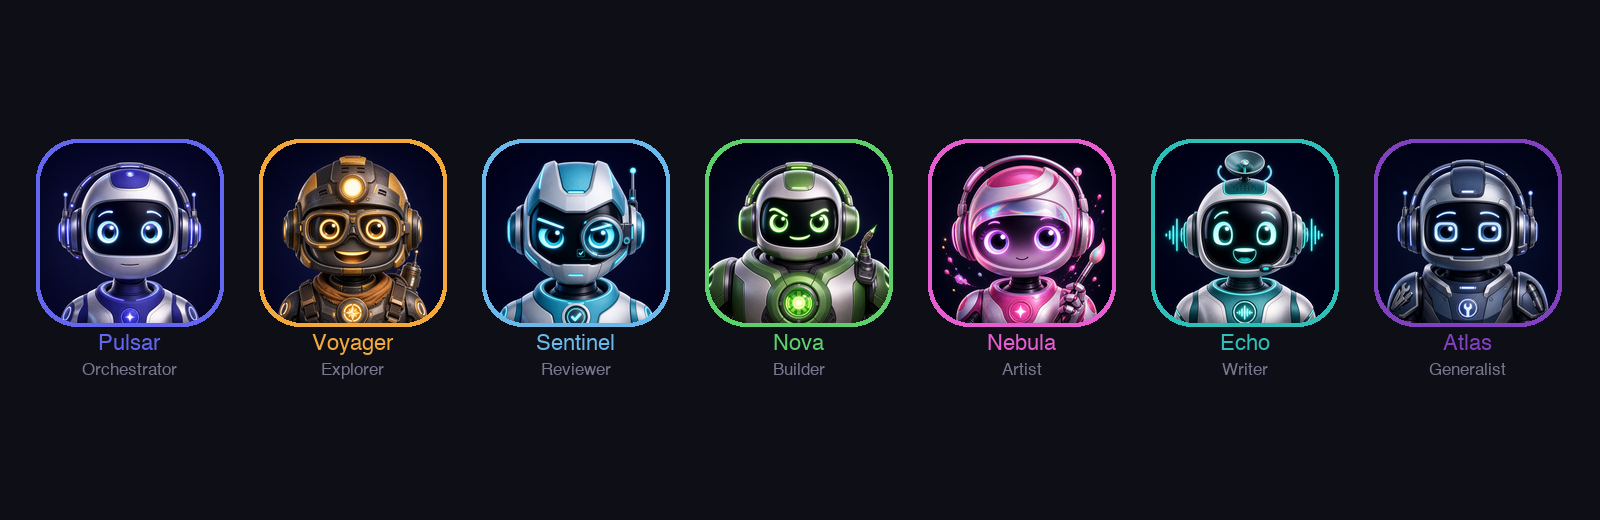
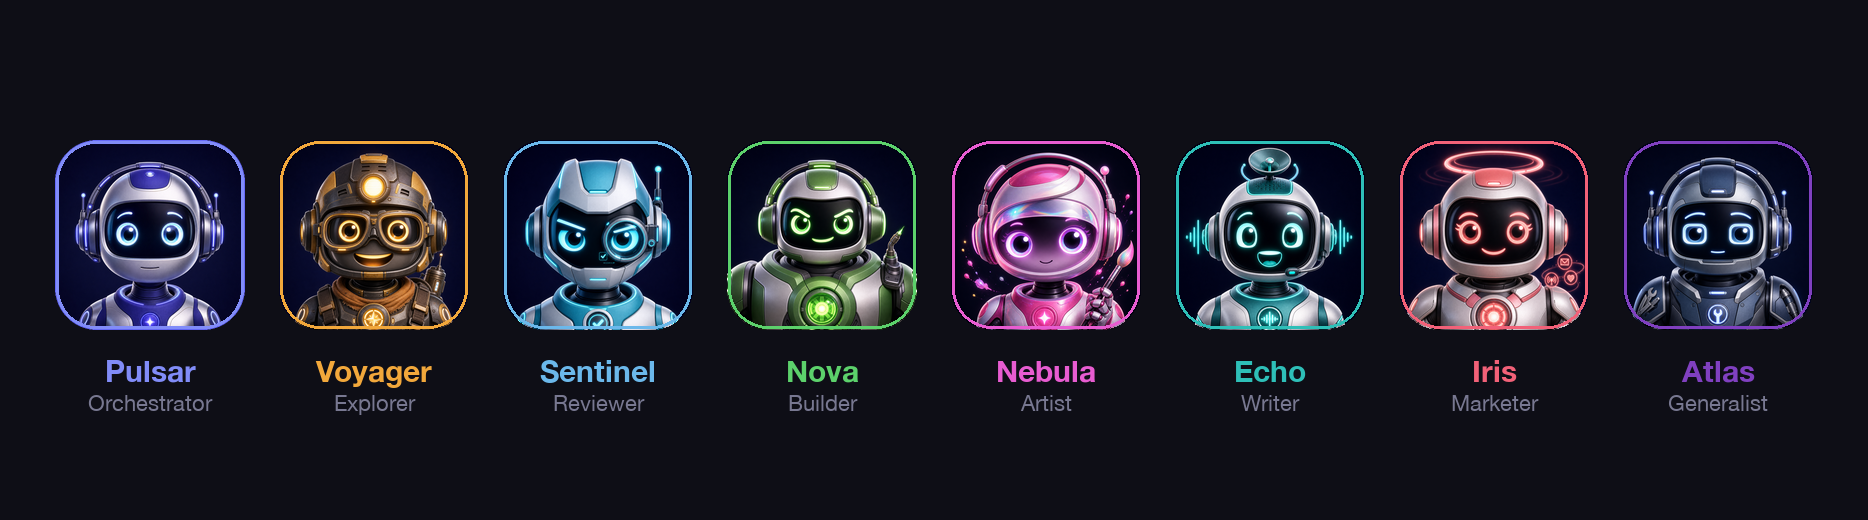
README swarm: regen with Iris (8 tiles) + commit the compositor
assets/readme/drone-swarm.png now shows the full 8-strong cast — Iris
(coral-rose, Marketer) slotted between Echo and Atlas. The lineup is
built by scripts/build-drone-swarm.py (new, committed so the next cast
change regenerates mechanically instead of re-deriving the layout);
colours/roles mirror DroneRegistry.

diff --git a/scripts/build-drone-swarm.py b/scripts/build-drone-swarm.py
@@ -1,0 +1,90 @@
+#!/usr/bin/env python3
+"""Rebuild assets/readme/drone-swarm.png — the README's "Meet the swarm" lineup.
+
+Composites the full cast (Pulsar + every drone) from their master portraits
+into colour-ringed rounded tiles with name + role labels. Run it after ANY
+cast change (new drone, recoloured drone, new master art):
+
+    python3 scripts/build-drone-swarm.py
+
+Cast order/colours/roles mirror Sources/Models/DroneRegistry.swift — keep the
+CAST table below in lockstep with the registry (colours are the locked drone
+hues; roles are the registry roles, capitalised).
+"""
+
+from pathlib import Path
+from PIL import Image, ImageDraw, ImageFont
+
+REPO = Path(__file__).resolve().parent.parent
+
+# name, role, hex colour (DroneRegistry locked hues), master portrait path
+CAST = [
+    ("Pulsar",   "Orchestrator", "#818CF8", REPO / "assets/readme/pulsar.png"),
+    ("Voyager",  "Explorer",     "#F2A83B", REPO / "design/drones/voyager.png"),
+    ("Sentinel", "Reviewer",     "#6BB8EB", REPO / "design/drones/sentinel.png"),
+    ("Nova",     "Builder",      "#5CD16B", REPO / "design/drones/nova.png"),
+    ("Nebula",   "Artist",       "#E85CD1", REPO / "design/drones/nebula.png"),
+    ("Echo",     "Writer",       "#2EBFB8", REPO / "design/drones/echo.png"),
+    ("Iris",     "Marketer",     "#F26178", REPO / "design/drones/iris.png"),
+    ("Atlas",    "Generalist",   "#8040C0", REPO / "design/drones/atlas.png"),
+]
+
+BG = (14, 14, 22)          # sampled from the original asset
+ROLE_GREY = (120, 120, 145)
+TILE = 190                  # portrait tile edge
+RADIUS = 40                 # tile corner radius
+BORDER = 3                  # ring width
+CANVAS_H = 520
+TILE_Y = 140                # tile top edge (vertical centre-ish, room for labels)
+GAP_EDGE = 55               # first/last tile inset
+
+OUT = REPO / "assets/readme/drone-swarm.png"
+
+
+def font(size: int, bold: bool = False):
+    for path, idx in [
+        ("/System/Library/Fonts/HelveticaNeue.ttc", 1 if bold else 0),
+        ("/System/Library/Fonts/Helvetica.ttc", 1 if bold else 0),
+    ]:
+        try:
+            return ImageFont.truetype(path, size, index=idx)
+        except Exception:
+            continue
+    return ImageFont.load_default()
+
+
+def rounded_tile(master: Path, hex_colour: str) -> Image.Image:
+    """Master portrait resized into a rounded square with a coloured ring."""
+    img = Image.open(master).convert("RGB").resize((TILE, TILE), Image.LANCZOS)
+    tile = Image.new("RGBA", (TILE, TILE), (0, 0, 0, 0))
+    mask = Image.new("L", (TILE, TILE), 0)
+    ImageDraw.Draw(mask).rounded_rectangle([0, 0, TILE - 1, TILE - 1], RADIUS, fill=255)
+    tile.paste(img, (0, 0), mask)
+    d = ImageDraw.Draw(tile)
+    d.rounded_rectangle([1, 1, TILE - 2, TILE - 2], RADIUS, outline=hex_colour, width=BORDER)
+    return tile
+
+
+def main():
+    n = len(CAST)
+    gap = 34
+    canvas_w = 2 * GAP_EDGE + n * TILE + (n - 1) * gap
+    im = Image.new("RGB", (canvas_w, CANVAS_H), BG)
+    draw = ImageDraw.Draw(im)
+    name_f, role_f = font(30, bold=True), font(22)
+
+    for i, (name, role, colour, master) in enumerate(CAST):
+        x = GAP_EDGE + i * (TILE + gap)
+        im.paste(rounded_tile(master, colour), (x, TILE_Y), rounded_tile(master, colour))
+        cx = x + TILE // 2
+        nw = draw.textlength(name, font=name_f)
+        draw.text((cx - nw / 2, TILE_Y + TILE + 22), name, fill=colour, font=name_f)
+        rw = draw.textlength(role, font=role_f)
+        draw.text((cx - rw / 2, TILE_Y + TILE + 60), role, fill=ROLE_GREY, font=role_f)
+
+    im.save(OUT)
+    print(f"wrote {OUT} ({im.size[0]}x{im.size[1]}, {n} tiles)")
+
+
+if __name__ == "__main__":
+    main()